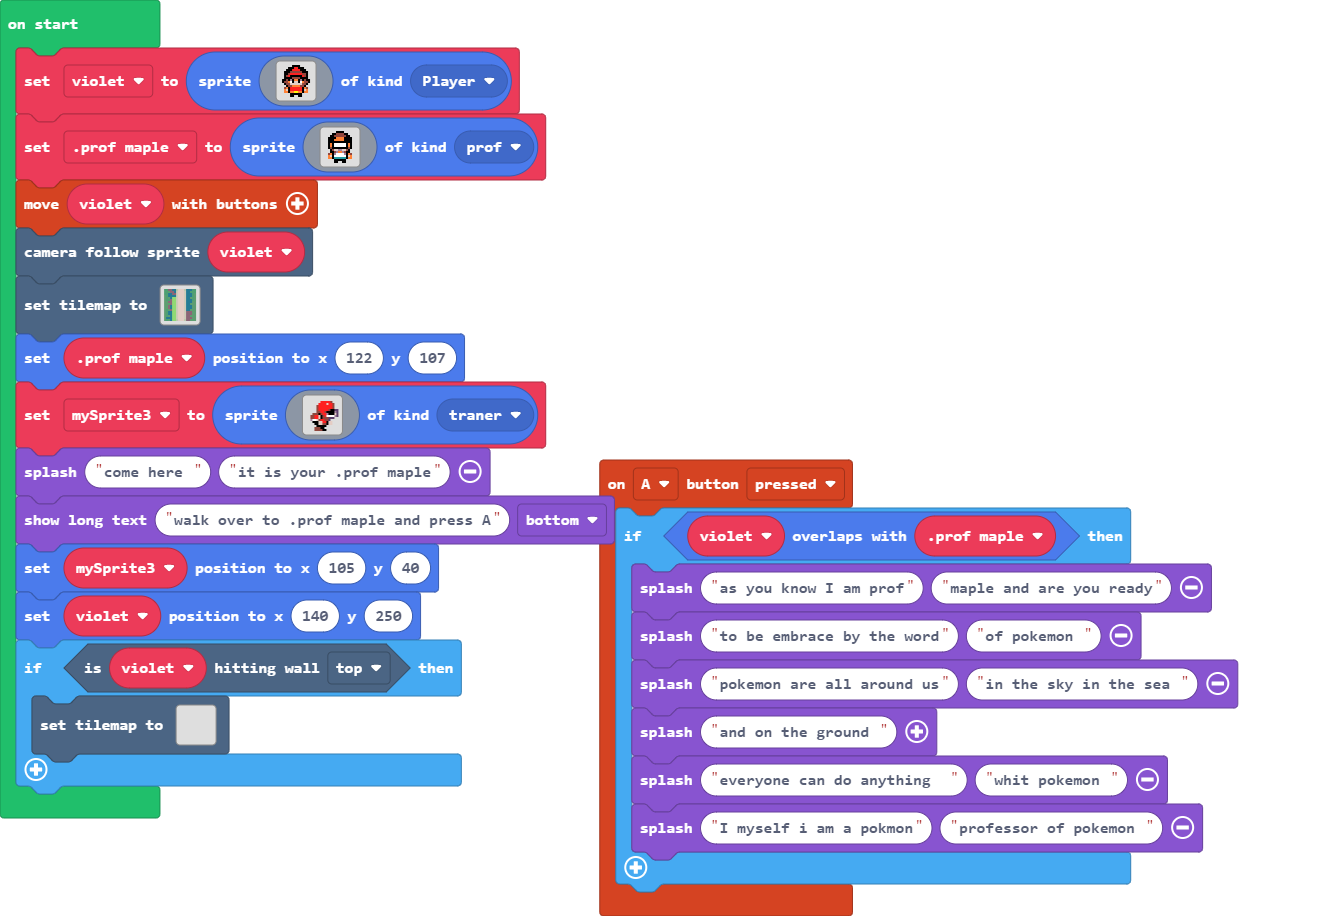
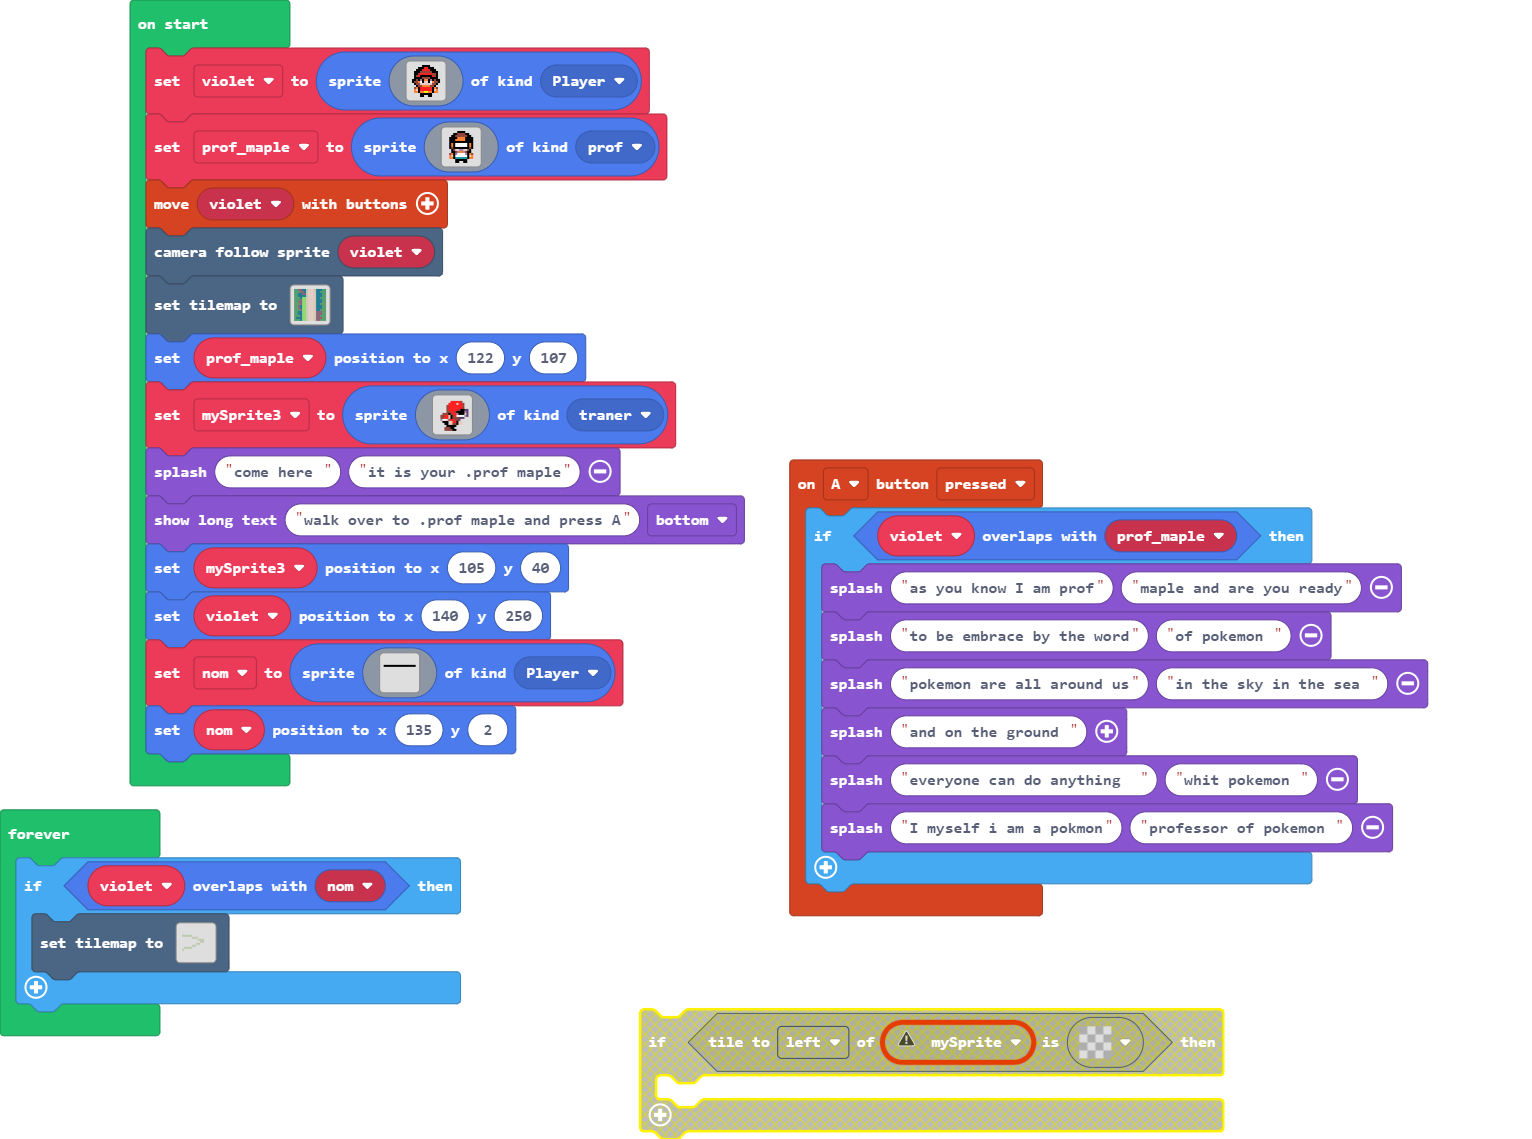
Update pxt.json, main.blocks, main.ts, tilemap.g.jres, tilemap.g.ts, main.py

diff --git a/tilemap.g.ts b/tilemap.g.ts
@@ -124,6 +124,25 @@ namespace myTiles {
 . . . . . . . . . . . . . . . . 
 . . . . . . . . . . . . . . . . 
 `, [myTiles.transparency16], TileScale.Sixteen);
+            case "level6":
+            case "level6":return tiles.createTilemap(hex`1000100000000000000000000000000000000000000000000000000000000000000000000000000000000000000000000000000000000000000000000000000000000000000101010101000000000000000000000000000000000101010000000000000000000000000000000001010100000000000000000000000000000101000000000000000000000000010100000000000000000000000001010000000000000000000001010101000000000000000000000001000000000000000000000000000000000000000000000000000000000000000000000000000000000000000000000000000000000000000000000000000000000000000000000000000000000000`, img`
+. . . . . . . . . . . . . . . . 
+. . . . . . . . . . . . . . . . 
+. . . . . . . . . . . . . . . . 
+. . . . . . . . . . . . . . . . 
+. . . . . . . . . . . . . . . . 
+. . . . . . . . . . . . . . . . 
+. . . . . . . . . . . . . . . . 
+. . . . . . . . . . . . . . . . 
+. . . . . . . . . . . . . . . . 
+. . . . . . . . . . . . . . . . 
+. . . . . . . . . . . . . . . . 
+. . . . . . . . . . . . . . . . 
+. . . . . . . . . . . . . . . . 
+. . . . . . . . . . . . . . . . 
+. . . . . . . . . . . . . . . . 
+. . . . . . . . . . . . . . . . 
+`, [myTiles.transparency16,sprites.castle.tilePath7], TileScale.Sixteen);
         }
         return null;
     })

diff --git a/main.ts b/main.ts
@@ -76,6 +76,27 @@ game.splash("come here ", "it is your .prof maple")
 game.showLongText("walk over to .prof maple and press A", DialogLayout.Bottom)
 mySprite3.setPosition(105, 40)
 violet.setPosition(140, 250)
-if (violet.isHittingTile(CollisionDirection.Top)) {
-    tiles.setTilemap(tilemap`level5`)
-}
+let nom = sprites.create(img`
+    . . . . . . . . . . . . . . . . 
+    . . . . . . . . . . . . . . . . 
+    . . . . . . . . . . . . . . . . 
+    . . . . . . . . . . . . . . . . 
+    f f f f f f f f f f f f f f f f 
+    . . . . . . . . . . . . . . . . 
+    . . . . . . . . . . . . . . . . 
+    . . . . . . . . . . . . . . . . 
+    . . . . . . . . . . . . . . . . 
+    . . . . . . . . . . . . . . . . 
+    . . . . . . . . . . . . . . . . 
+    . . . . . . . . . . . . . . . . 
+    . . . . . . . . . . . . . . . . 
+    . . . . . . . . . . . . . . . . 
+    . . . . . . . . . . . . . . . . 
+    . . . . . . . . . . . . . . . . 
+    `, SpriteKind.Player)
+nom.setPosition(135, 2)
+forever(function () {
+    if (violet.overlapsWith(nom)) {
+        tiles.setTilemap(tilemap`level6`)
+    }
+})

diff --git a/main.py b/main.py
@@ -1,0 +1,111 @@
+@namespace
+class SpriteKind:
+    prof = SpriteKind.create()
+    traner = SpriteKind.create()
+
+def on_a_pressed():
+    if violet.overlaps_with(prof_maple):
+        game.splash("as you know I am prof", "maple and are you ready")
+        game.splash("to be embrace by the word", "of pokemon ")
+        game.splash("pokemon are all around us", "in the sky in the sea ")
+        game.splash("and on the ground ")
+        game.splash("everyone can do anything  ", "whit pokemon ")
+        game.splash("I myself i am a pokmon", "professor of pokemon ")
+controller.A.on_event(ControllerButtonEvent.PRESSED, on_a_pressed)
+
+prof_maple: Sprite = None
+violet: Sprite = None
+violet = sprites.create(img("""
+        . . . . . . f f f f . . . . . . 
+            . . . . f f f 2 2 f f f . . . . 
+            . . . f f f 2 2 2 2 f f f . . . 
+            . . f f f e e e e e e f f f . . 
+            . . f f e 2 2 2 2 2 2 e e f . . 
+            . . f e 2 f f f f f f 2 e f . . 
+            . . f f f f e e e e f f f f . . 
+            . f f e f b f 4 4 f b f e f f . 
+            . f e e 4 1 f d d f 1 4 e e f . 
+            . . f e e d d d d d d e e f . . 
+            . . . f e e 4 4 4 4 e e f . . . 
+            . . e 4 f 2 2 2 2 2 2 f 4 e . . 
+            . . 4 d f 2 2 2 2 2 2 f d 4 . . 
+            . . 4 4 f 4 4 5 5 4 4 f 4 4 . . 
+            . . . . . f f f f f f . . . . . 
+            . . . . . f f . . f f . . . . .
+    """),
+    SpriteKind.player)
+prof_maple = sprites.create(img("""
+        . . . . f f f f . . . . 
+            . . f f e e e e f f . . 
+            . f f e e e e e e f f . 
+            f f f f 4 4 4 4 f f f f 
+            f f f 4 4 4 4 4 f f f f 
+            f f f f f f f f f f f f 
+            f 4 f 1 1 1 1 1 1 f 4 f 
+            f 4 f 1 1 1 1 1 1 f 4 f 
+            f e f f f f f f f f e f 
+            . f e d d b b d d e f . 
+            . f f e b 4 4 b e f f . 
+            e 4 f b 1 1 1 1 b f 4 e 
+            4 d f 1 1 1 1 1 1 f d 4 
+            4 4 f 6 6 6 6 6 6 f 4 4 
+            . . . f f f f f f . . . 
+            . . . f f . . f f . . .
+    """),
+    SpriteKind.prof)
+controller.move_sprite(violet)
+scene.camera_follow_sprite(violet)
+tiles.set_tilemap(tilemap("""
+    level1
+"""))
+prof_maple.set_position(122, 107)
+mySprite3 = sprites.create(img("""
+        . . . . . . . . . . . . . . . . 
+            . . . . . . . 2 2 2 2 2 e . . . 
+            . . . . . . 2 2 2 2 d 2 2 e . . 
+            . . . . . e 2 2 2 2 2 2 2 e . . 
+            . . . . . e 2 2 2 2 2 2 2 e . . 
+            . . . . . e 2 2 2 2 2 e f f c c 
+            . . . . . e e 2 2 e f f f f b c 
+            . . . e e e f e 2 2 b f f f d c 
+            . . e e 2 2 d f e 2 1 1 1 1 b c 
+            . . e e 2 2 d f e e e c c c . . 
+            . . b 1 1 d e 2 2 e e c . . . . 
+            . . . f f f d d 2 2 f d d . . . 
+            . . . . f f d d e e f d d . . . 
+            . . . . . f f f f f . . . . . . 
+            . . . . e e e f f . . . . . . . 
+            . . . . e e e e f f . . . . . .
+    """),
+    SpriteKind.traner)
+game.splash("come here ", "it is your .prof maple")
+game.show_long_text("walk over to .prof maple and press A", DialogLayout.BOTTOM)
+mySprite3.set_position(105, 40)
+violet.set_position(140, 250)
+nom = sprites.create(img("""
+        . . . . . . . . . . . . . . . . 
+            . . . . . . . . . . . . . . . . 
+            . . . . . . . . . . . . . . . . 
+            . . . . . . . . . . . . . . . . 
+            f f f f f f f f f f f f f f f f 
+            . . . . . . . . . . . . . . . . 
+            . . . . . . . . . . . . . . . . 
+            . . . . . . . . . . . . . . . . 
+            . . . . . . . . . . . . . . . . 
+            . . . . . . . . . . . . . . . . 
+            . . . . . . . . . . . . . . . . 
+            . . . . . . . . . . . . . . . . 
+            . . . . . . . . . . . . . . . . 
+            . . . . . . . . . . . . . . . . 
+            . . . . . . . . . . . . . . . . 
+            . . . . . . . . . . . . . . . .
+    """),
+    SpriteKind.player)
+nom.set_position(135, 2)
+
+def on_forever():
+    if violet.overlaps_with(nom):
+        tiles.set_tilemap(tilemap("""
+            level6
+        """))
+forever(on_forever)
